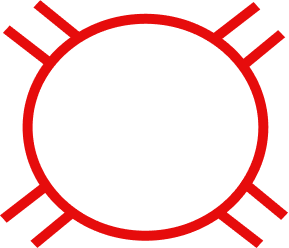
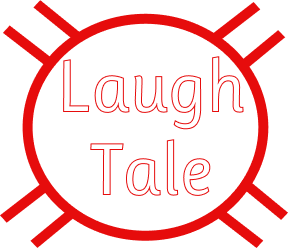
center button

diff --git a/view/Accueil.js b/view/Accueil.js
@@ -6,25 +6,21 @@ const Accueil = ({navigation}) => {
     <React.Fragment>
       <View style={styles.container}>
         <ImageBackground source={require('../assets/images/Accueil/bg-accueil.png')} resizeMode="cover" style={styles.image}>
-          
+          <TouchableOpacity
+            style={styles.accueil_button}
+            onPress={() =>
+              navigation.navigate("Laugh")
+            }
+          >
+            <View style={styles.accueil_img}>  
+              <Image
+                source={require('../assets/images/Accueil/icone_accueil.png')}
+              />
+            </View>
+          </TouchableOpacity>
         </ImageBackground>
       </View>  
       <View>
-        <TouchableOpacity
-          style={styles.accueil_button}
-          onPress={() =>
-            navigation.navigate("Laugh")
-          }
-        >
-          <View style={styles.accueil_img}>  
-            <Image
-              source={require('../assets/images/Accueil/icone_accueil.png')}
-            />
-          </View>
-          <Text
-            style={styles.text_button}
-          >Laugh{"\n"}  Tale</Text>
-        </TouchableOpacity>
           <Text
             style={styles.accueil_text}
           >
@@ -44,24 +40,13 @@ const styles = StyleSheet.create({
     justifyContent: 'center',
   },
   accueil_button: {
+    position: 'absolute',
+    top: 0,
+    right: 0,
+    left: 0,
+    bottom: 50,
     justifyContent: 'center',
     alignItems:'center',
-  },
-  text_button: {
-    position: 'absolute',
-    fontFamily: 'Roboto',
-    fontSize: 60,
-    left: Dimensions.get("window").width / 4,
-    top: Dimensions.get("window").height / 3,
-    textShadowColor:'red',
-    textShadowOffset:{width: 2, height: 2},
-    textShadowRadius:1,
-  },
-  accueil_img: {
-    position: 'absolute',
-    top: Dimensions.get("window").height / 4,
-    right: Dimensions.get("window").width / 8,
-    zIndex: 2,
   },
   accueil_text: {
     backgroundColor: 'white',
